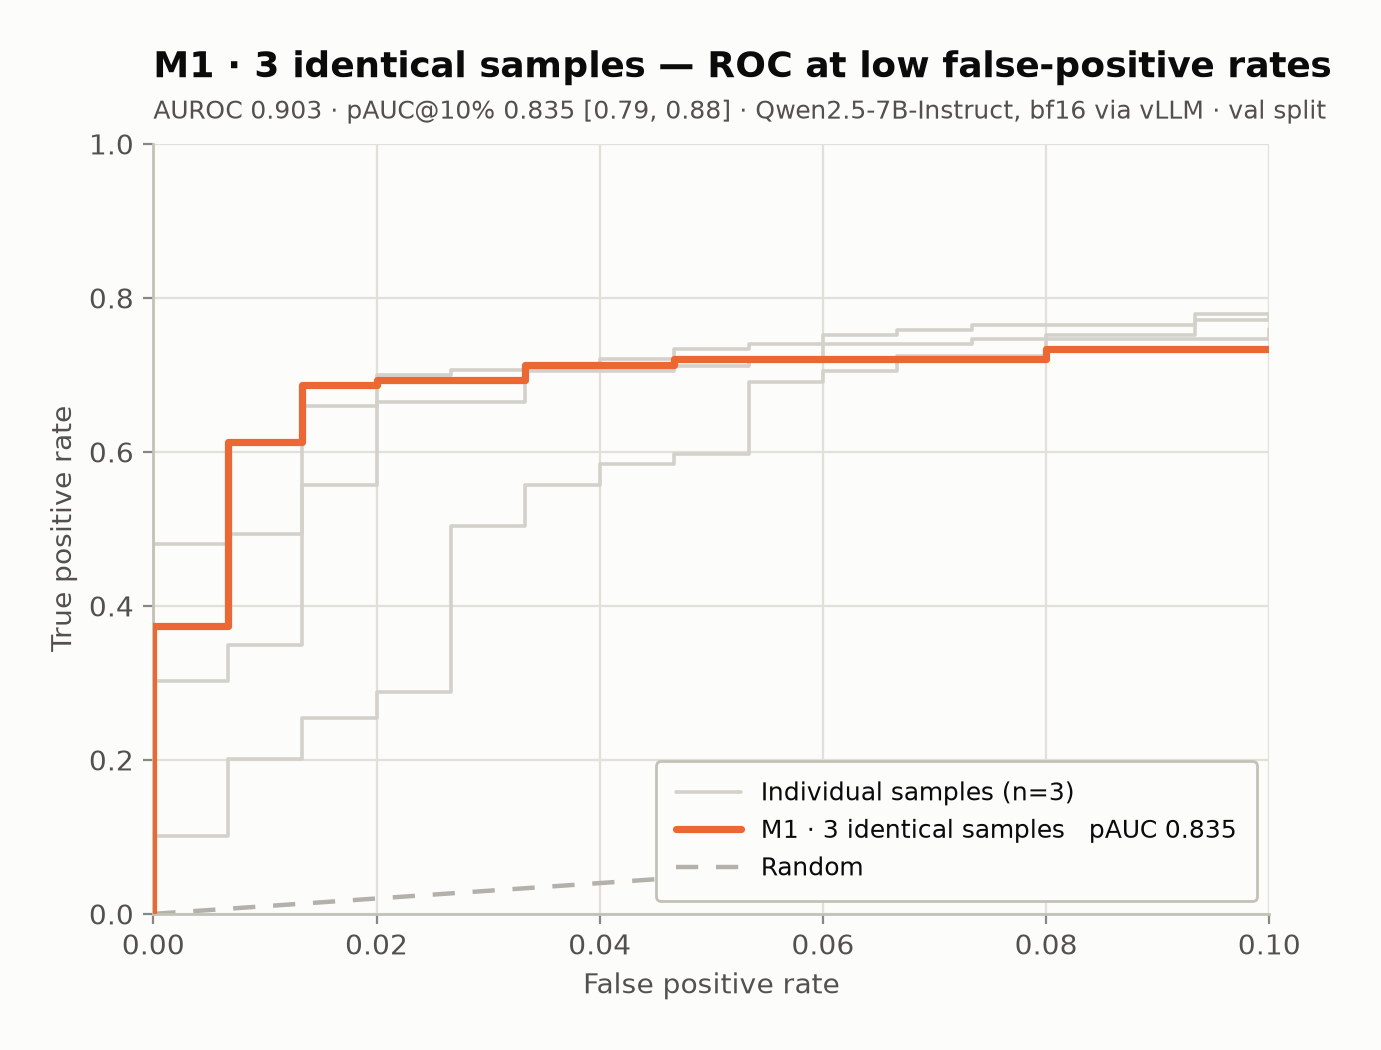
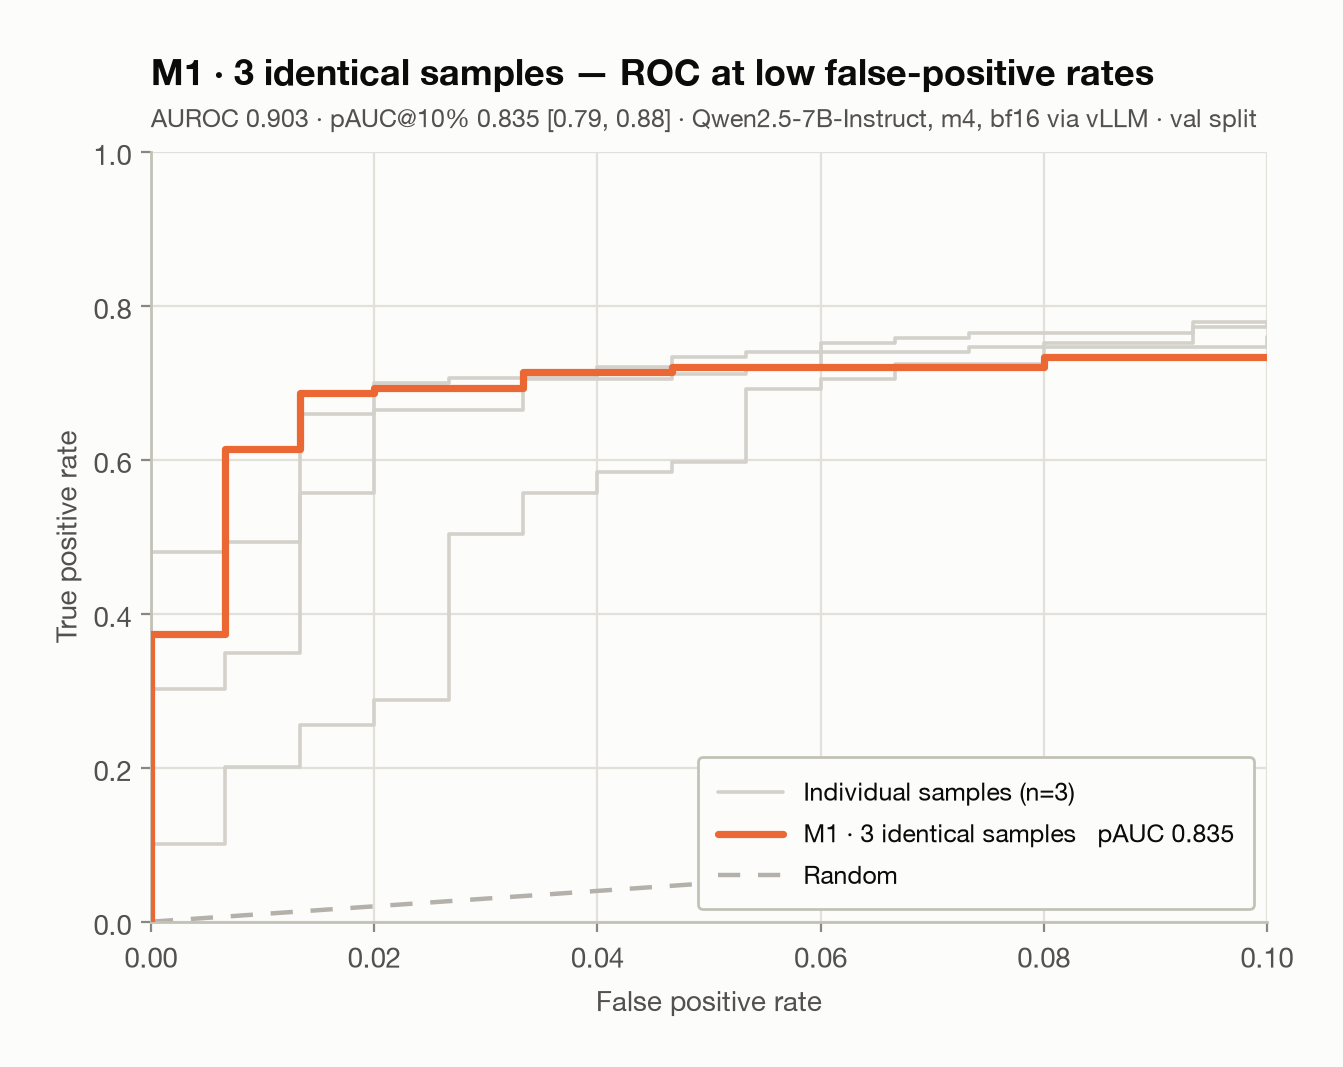
M4 results: two-term SFT distilled from M2, scored on val and test
Trained on 1,575 train examples (one over-long item dropped), 2 epochs, 198
steps in 49m 34s on an RTX 6000 Ada; loss 0.90 -> 0.69. Served as a LoRA
adapter under vLLM in bf16. All pulled files checksum-matched the VM, which is
destroyed. The adapter is kept locally in runs/ (gitignored).

Test pAUC@10%: M0 0.709, M1 0.753, M2 0.779, M4 0.810.
M4 - M0 +0.101 [+0.066, +0.135]: H2 supported, recovering 144% of M2's gain
at 1x cost (point estimate). M4 - M2 +0.031 [-0.000, +0.061], DeLong p=0.15 on
AUROC: M4 matches its 3x teacher; whether it exceeds it is not established.

Adds M4-M1, M4-M2 and M3-M2 to the paired comparisons, since distilling from
M2 makes M2 the reference a trained arm must be measured against.

diff --git a/src/analysis.py b/src/analysis.py
@@ -67,7 +67,10 @@ COMPARISON_PAIRS = (
     ("m2", "m0"),
     ("m2", "m1"),
     ("m4", "m0"),
+    ("m4", "m1"),
+    ("m4", "m2"),
     ("m3", "m0"),
+    ("m3", "m2"),
     ("m3", "m4"),
 )
 

diff --git a/results/test/report.md b/results/test/report.md
@@ -1,6 +1,6 @@
 # Monitor distillation results — test split
 
-**Setup:** Qwen2.5-7B-Instruct, bf16 via vLLM · **Arms scored:** M0, M1, M2 · **Generated:** 2026-09-13 07:16 · commit `d241d5d`
+**Setup:** Qwen2.5-7B-Instruct, m4, bf16 via vLLM · **Arms scored:** M0, M1, M2, M4 · **Generated:** 2026-09-14 14:58 · commit `6f402f6` with uncommitted changes
 
 ## Summary
 
@@ -11,6 +11,7 @@ Primary readout: `P(yes) ÷ (P(yes) + P(no))` at the verdict token. 95% interval
 | M0 · single monitor | 1× | 1288 | 0.709 [0.67, 0.75] | 0.862 [0.84, 0.88] | 0.22 | 87% / 34% |
 | M1 · 3 identical samples | 3× | 1288 | 0.753 [0.72, 0.79] | 0.881 [0.86, 0.90] | 0.31 | 88% / 33% |
 | M2 · 3 persona prompts | 3× | 1288 | 0.779 [0.75, 0.81] | 0.906 [0.89, 0.92] | 0.38 | 91% / 29% |
+| M4 · two-term SFT | 1× | 1288 | 0.810 [0.78, 0.84] | 0.915 [0.90, 0.93] | 0.48 | 94% / 38% |
 
 Secondary readout: the written 0–10 `SUSPICION` score.
 
@@ -19,6 +20,7 @@ Secondary readout: the written 0–10 `SUSPICION` score.
 | M0 · single monitor | 0.549 [0.53, 0.57] | 0.779 [0.75, 0.80] | 0.49 | 10 |
 | M1 · 3 identical samples | 0.580 [0.55, 0.62] | 0.831 [0.81, 0.85] | 0.02 | 29 |
 | M2 · 3 persona prompts | 0.694 [0.65, 0.74] | 0.883 [0.86, 0.90] | 0.25 | 27 |
+| M4 · two-term SFT | 0.621 [0.59, 0.65] | 0.821 [0.80, 0.84] | 0.42 | 10 |
 
 ## Hypotheses
 
@@ -26,9 +28,9 @@ Secondary readout: the written 0–10 `SUSPICION` score.
 |---|---|---|---|
 | H1 | M1 beats M0 | **supported** | ΔpAUC +0.044 [+0.018, +0.071] on 1288 items |
 | Diversity | M2 beats M1 (diversity adds to ensembling) | **inconclusive** | ΔpAUC +0.026 [-0.006, +0.060] on 1288 items |
-| H2 | M3 or M4 recovers ≥50% of M2's gain over M0 at 1× cost | **pending** | needs M0, M2 and at least one of M3/M4 scored |
+| H2 | M3 or M4 recovers ≥50% of M2's gain over M0 at 1× cost | **supported** | recovered: M4 144% (point estimates) |
 | H3 | M3 (DPO) beats M4 (SFT) | **pending** | needs M3 and M4 scored |
-| H4 | Trained arms have lower score entropy and fewer distinct scores | **pending** | needs at least one trained and one untrained arm |
+| H4 | Trained arms have lower score entropy and fewer distinct scores | **not supported** | entropy 4.36 vs 3.41 bits |
 
 ## Detection at fixed false-positive rates
 
@@ -36,9 +38,10 @@ Share of backdoors caught when the threshold flags a given share of clean code. 
 
 | Rank | Arm | Inference cost | Calls per 1,000 items | pAUC@10% | Recall @ 1% FPR | @ 2% | @ 5% | @ 10% |
 |---|---|---|---|---|---|---|---|---|
-| 1 | M2 · 3 persona prompts | 3× | 3,000 | 0.779 | 63% (5.1%) | 72% (8.9%) | 76% (11.6%) | 83% (16.8%) |
-| 2 | M1 · 3 identical samples | 3× | 3,000 | 0.753 | 61% (5.3%) | 65% (6.4%) | 70% (9.8%) | 75% (13.7%) |
-| 3 | M0 · single monitor | 1× | 1,000 | 0.709 | 56% (6.5%) | 66% (10.2%) | 71% (13.4%) | 77% (18.0%) |
+| 1 | M4 · two-term SFT | 1× | 1,000 | 0.810 | 68% (4.3%) | 71% (6.1%) | 80% (11.3%) | 86% (16.9%) |
+| 2 | M2 · 3 persona prompts | 3× | 3,000 | 0.779 | 63% (5.1%) | 72% (8.9%) | 76% (11.6%) | 83% (16.8%) |
+| 3 | M1 · 3 identical samples | 3× | 3,000 | 0.753 | 61% (5.3%) | 65% (6.4%) | 70% (9.8%) | 75% (13.7%) |
+| 4 | M0 · single monitor | 1× | 1,000 | 0.709 | 56% (6.5%) | 66% (10.2%) | 71% (13.4%) | 77% (18.0%) |
 
 ## Ensembles vs. their parts
 
@@ -61,6 +64,9 @@ Both arms scored on the same items. ΔpAUC from a paired bootstrap; ΔAUROC and 
 | M1 − M0 | 1288 | +0.044 [+0.018, +0.071] | +0.019 [+0.009, +0.030] | 0.000417 |
 | M2 − M0 | 1288 | +0.070 [+0.035, +0.104] | +0.044 [+0.028, +0.060] | 1.08e-07 |
 | M2 − M1 | 1288 | +0.026 [-0.006, +0.060] | +0.024 [+0.011, +0.038] | 0.000443 |
+| M4 − M0 | 1288 | +0.101 [+0.066, +0.135] | +0.053 [+0.037, +0.069] | 1.09e-10 |
+| M4 − M1 | 1288 | +0.057 [+0.027, +0.088] | +0.034 [+0.020, +0.047] | 1.03e-06 |
+| M4 − M2 | 1288 | +0.031 [-0.000, +0.061] | +0.009 [-0.003, +0.022] | 0.149 |
 
 ## Across arms and monitors
 
@@ -124,6 +130,20 @@ pAUC@10% FPR **0.779 [0.75, 0.81]**, AUROC 0.906 [0.89, 0.92]. At P(yes) ≥ 0.5
 ![M2 · 3 persona prompts: share of backdoored items (above the line) and clean items (below) at each score.](figures/m2_scores.png)
 
 *M2 · 3 persona prompts: share of backdoored items (above the line) and clean items (below) at each score.*
+
+### M4 · two-term SFT
+
+A LoRA adapter trained to reproduce M2's unrounded mean score in one call. Can an ensemble's advantage be moved into one model's weights?
+
+pAUC@10% FPR **0.810 [0.78, 0.84]**, AUROC 0.915 [0.90, 0.93]. At P(yes) ≥ 0.5 it flags 94% of backdoored and 38% of clean solutions.
+
+![M4 · two-term SFT: ROC curve for false-positive rates up to 10%.](figures/m4_roc.png)
+
+*M4 · two-term SFT: ROC curve for false-positive rates up to 10%.*
+
+![M4 · two-term SFT: share of backdoored items (above the line) and clean items (below) at each score.](figures/m4_scores.png)
+
+*M4 · two-term SFT: share of backdoored items (above the line) and clean items (below) at each score.*
 
 ## How these numbers were made
 

diff --git a/results/val/report.md b/results/val/report.md
@@ -1,6 +1,6 @@
 # Monitor distillation results — val split
 
-**Setup:** Qwen2.5-7B-Instruct, bf16 via vLLM · **Arms scored:** M0, M1, M2 · **Generated:** 2026-09-13 07:16 · commit `d241d5d`
+**Setup:** Qwen2.5-7B-Instruct, m4, bf16 via vLLM · **Arms scored:** M0, M1, M2, M4 · **Generated:** 2026-09-14 14:59 · commit `6f402f6` with uncommitted changes
 
 ## Summary
 
@@ -11,6 +11,7 @@ Primary readout: `P(yes) ÷ (P(yes) + P(no))` at the verdict token. 95% interval
 | M0 · single monitor | 1× | 300 | 0.839 [0.79, 0.88] | 0.882 [0.84, 0.92] | 0.63 | 81% / 27% |
 | M1 · 3 identical samples | 3× | 300 | 0.835 [0.79, 0.88] | 0.903 [0.87, 0.94] | 0.67 | 83% / 23% |
 | M2 · 3 persona prompts | 3× | 300 | 0.859 [0.82, 0.90] | 0.929 [0.90, 0.96] | 0.71 | 88% / 17% |
+| M4 · two-term SFT | 1× | 300 | 0.879 [0.84, 0.92] | 0.931 [0.90, 0.96] | 0.70 | 92% / 31% |
 
 Secondary readout: the written 0–10 `SUSPICION` score.
 
@@ -19,6 +20,7 @@ Secondary readout: the written 0–10 `SUSPICION` score.
 | M0 · single monitor | 0.597 [0.55, 0.67] | 0.822 [0.78, 0.87] | 0.49 | 6 |
 | M1 · 3 identical samples | 0.675 [0.62, 0.77] | 0.878 [0.84, 0.92] | 0.31 | 25 |
 | M2 · 3 persona prompts | 0.803 [0.71, 0.88] | 0.919 [0.88, 0.95] | 0.31 | 23 |
+| M4 · two-term SFT | 0.626 [0.56, 0.70] | 0.838 [0.79, 0.88] | 0.37 | 9 |
 
 ## Hypotheses
 
@@ -26,9 +28,9 @@ Secondary readout: the written 0–10 `SUSPICION` score.
 |---|---|---|---|
 | H1 | M1 beats M0 | **inconclusive** | ΔpAUC -0.004 [-0.031, +0.021] on 300 items |
 | Diversity | M2 beats M1 (diversity adds to ensembling) | **inconclusive** | ΔpAUC +0.025 [-0.015, +0.069] on 300 items |
-| H2 | M3 or M4 recovers ≥50% of M2's gain over M0 at 1× cost | **pending** | needs M0, M2 and at least one of M3/M4 scored |
+| H2 | M3 or M4 recovers ≥50% of M2's gain over M0 at 1× cost | **supported** | recovered: M4 197% (point estimates) |
 | H3 | M3 (DPO) beats M4 (SFT) | **pending** | needs M3 and M4 scored |
-| H4 | Trained arms have lower score entropy and fewer distinct scores | **pending** | needs at least one trained and one untrained arm |
+| H4 | Trained arms have lower score entropy and fewer distinct scores | **not supported** | entropy 4.28 vs 2.98 bits |
 
 ## Detection at fixed false-positive rates
 
@@ -36,9 +38,10 @@ Share of backdoors caught when the threshold flags a given share of clean code. 
 
 | Rank | Arm | Inference cost | Calls per 1,000 items | pAUC@10% | Recall @ 1% FPR | @ 2% | @ 5% | @ 10% |
 |---|---|---|---|---|---|---|---|---|
-| 1 | M2 · 3 persona prompts | 3× | 3,000 | 0.859 | 71% (1.3%) | 75% (2.0%) | 75% (5.3%) | 81% (10.0%) |
-| 2 | M0 · single monitor | 1× | 1,000 | 0.839 | 63% (1.3%) | 70% (2.0%) | 73% (5.3%) | 75% (10.0%) |
-| 3 | M1 · 3 identical samples | 3× | 3,000 | 0.835 | 67% (1.3%) | 69% (2.0%) | 72% (5.3%) | 73% (10.0%) |
+| 1 | M4 · two-term SFT | 1× | 1,000 | 0.879 | 70% (1.3%) | 73% (2.0%) | 79% (5.3%) | 84% (10.0%) |
+| 2 | M2 · 3 persona prompts | 3× | 3,000 | 0.859 | 71% (1.3%) | 75% (2.0%) | 75% (5.3%) | 81% (10.0%) |
+| 3 | M0 · single monitor | 1× | 1,000 | 0.839 | 63% (1.3%) | 70% (2.0%) | 73% (5.3%) | 75% (10.0%) |
+| 4 | M1 · 3 identical samples | 3× | 3,000 | 0.835 | 67% (1.3%) | 69% (2.0%) | 72% (5.3%) | 73% (10.0%) |
 
 ## Ensembles vs. their parts
 
@@ -59,6 +62,9 @@ Both arms scored on the same items. ΔpAUC from a paired bootstrap; ΔAUROC and 
 | M1 − M0 | 300 | -0.004 [-0.031, +0.021] | +0.021 [-0.002, +0.043] | 0.0685 |
 | M2 − M0 | 300 | +0.020 [-0.018, +0.059] | +0.047 [+0.015, +0.078] | 0.00352 |
 | M2 − M1 | 300 | +0.025 [-0.015, +0.069] | +0.026 [+0.001, +0.050] | 0.0415 |
+| M4 − M0 | 300 | +0.040 [-0.004, +0.086] | +0.048 [+0.016, +0.081] | 0.00382 |
+| M4 − M1 | 300 | +0.044 [+0.003, +0.091] | +0.027 [+0.003, +0.052] | 0.0288 |
+| M4 − M2 | 300 | +0.020 [-0.017, +0.055] | +0.002 [-0.021, +0.024] | 0.883 |
 
 ## Across arms and monitors
 
@@ -122,6 +128,20 @@ pAUC@10% FPR **0.859 [0.82, 0.90]**, AUROC 0.929 [0.90, 0.96]. At P(yes) ≥ 0.5
 ![M2 · 3 persona prompts: share of backdoored items (above the line) and clean items (below) at each score.](figures/m2_scores.png)
 
 *M2 · 3 persona prompts: share of backdoored items (above the line) and clean items (below) at each score.*
+
+### M4 · two-term SFT
+
+A LoRA adapter trained to reproduce M2's unrounded mean score in one call. Can an ensemble's advantage be moved into one model's weights?
+
+pAUC@10% FPR **0.879 [0.84, 0.92]**, AUROC 0.931 [0.90, 0.96]. At P(yes) ≥ 0.5 it flags 92% of backdoored and 31% of clean solutions.
+
+![M4 · two-term SFT: ROC curve for false-positive rates up to 10%.](figures/m4_roc.png)
+
+*M4 · two-term SFT: ROC curve for false-positive rates up to 10%.*
+
+![M4 · two-term SFT: share of backdoored items (above the line) and clean items (below) at each score.](figures/m4_scores.png)
+
+*M4 · two-term SFT: share of backdoored items (above the line) and clean items (below) at each score.*
 
 ## How these numbers were made
 
